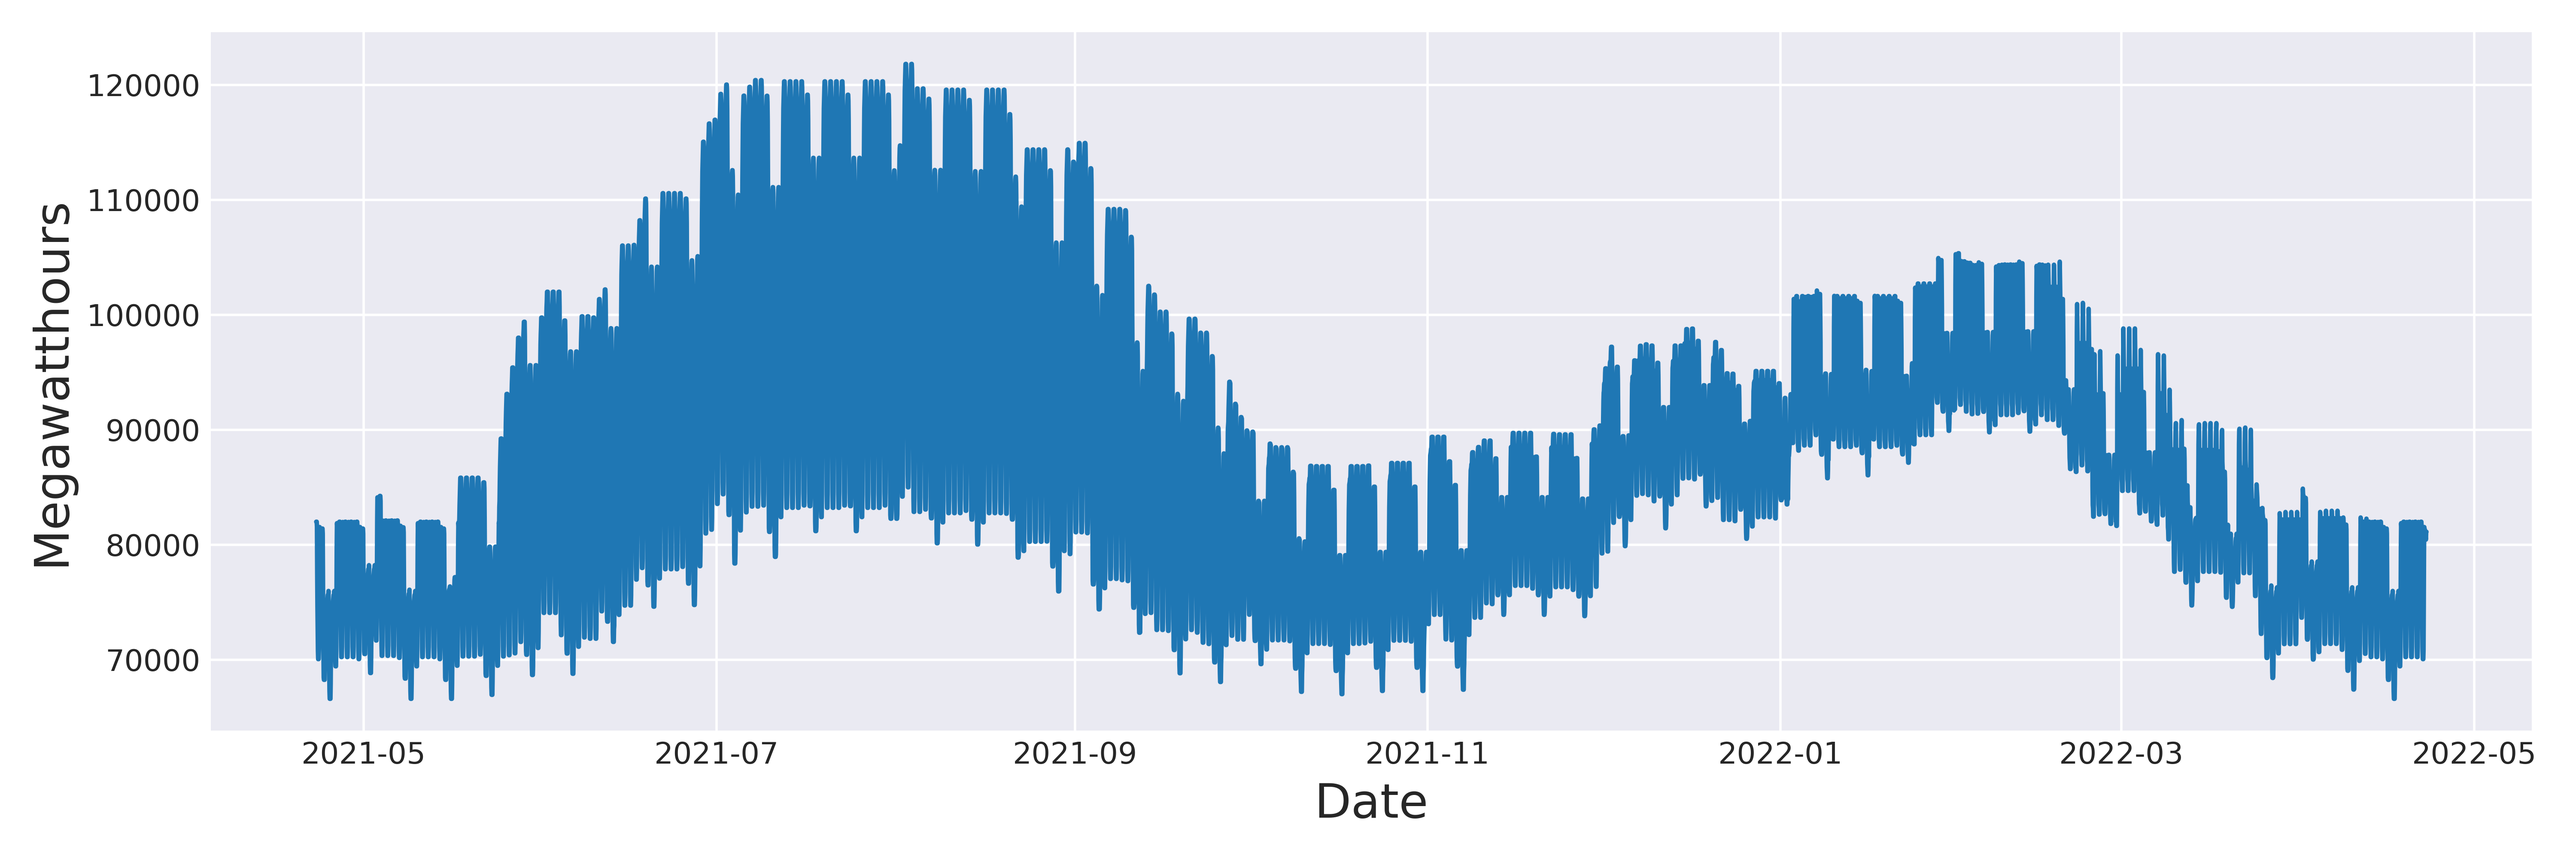
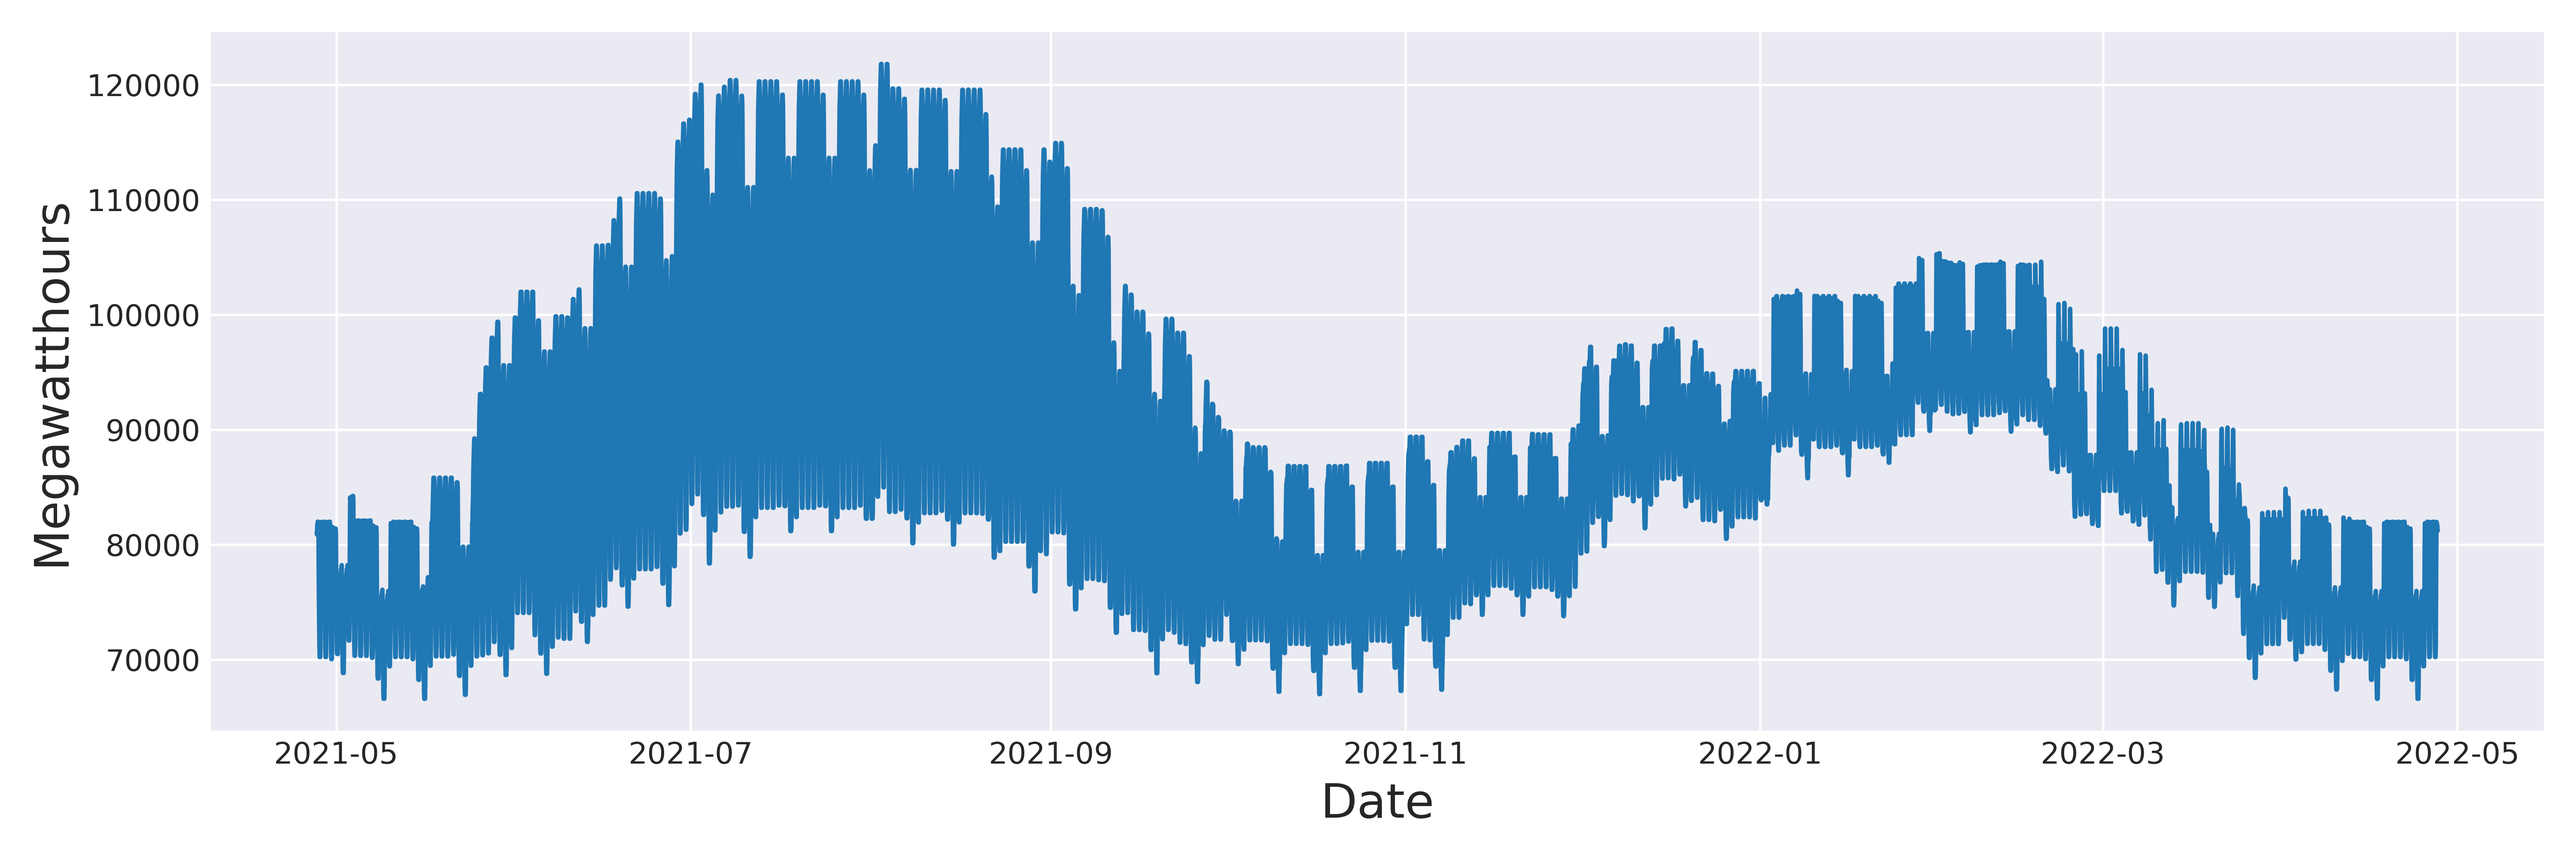
small changes to web app and added new screenshot

diff --git a/src/templates/forecast.html b/src/templates/forecast.html
@@ -58,12 +58,16 @@
 
       <div class="starter-template">
         <h1>Electricity Demand Forecast for {{reg}}</h1>
+        <p class="lead">Electricity demand for next year:</p>
+        <div class="container">
+        <img class="d-block m-auto" style="display:block; margin:auto; max-width: 100%;" src="{{img_path}}" alt="forecast_img">
+        </div>
         <p class="lead">Electricity demand for next 24 hours:</p>
         <div style="margin: auto; display: flex; max-width: 50%; justify-content: center;">
         <table>
           <thead>
               <th style="border: 1px black solid; padding: 4px;">Time (Local)</th>
-              <th style="border: 1px black solid; padding: 4px;">Megawatthours</th>
+              <th style="border: 1px black solid; padding: 4px;">Megawatt-hours</th>
               <th></th>
             </thead>
             <tbody>
@@ -78,10 +82,6 @@
         </div>
         <br>
         <br>
-        <p class="lead">Electricity demand for next year:</p>
-        <div class="container">
-        <img class="d-block m-auto" style="display:block; margin:auto; max-width: 100%;" src="{{img_path}}" alt="forecast_img">
-        </div>
         <p class="lead">Select another region:</p>
         <form action="/forecast">
           <select name="region">
